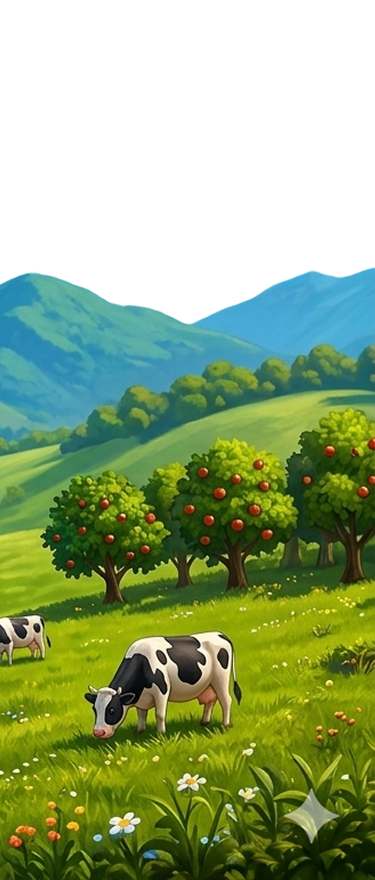
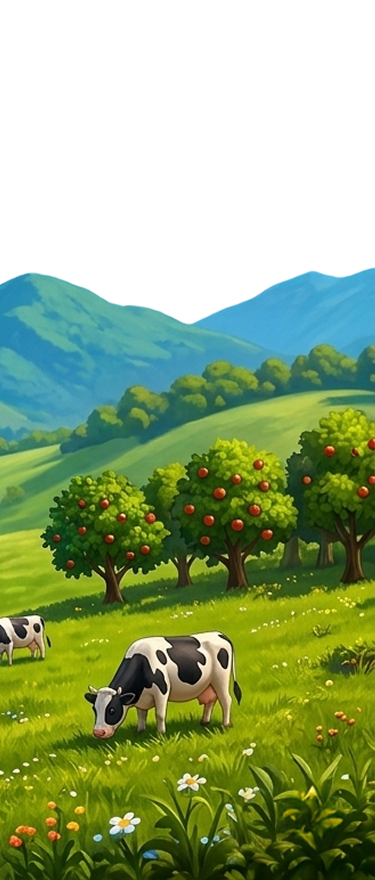
fixes

Changed region(s): [[0.7333, 0.8898, 0.9387, 0.9818]]

diff --git a/src/css/footer.css b/src/css/footer.css
@@ -10,15 +10,9 @@
   align-items: center;
   width: 100%;
   max-width: 1248px;
-  margin: 40px auto;
+  padding: 40px 0 40px 0;
+  margin: 0 auto;
   gap: 32px;
-
-  a {
-    font-weight: 700;
-    font-size: 24px;
-    line-height: 125%;
-    letter-spacing: -1%;
-  }
 
   ul {
     display: flex;
@@ -32,6 +26,43 @@
   }
 }
 
+.footer-page-link {
+  position: relative;
+  display: block;
+  font-weight: 700;
+  font-size: 24px;
+  line-height: 125%;
+  letter-spacing: -1%;
+  transition:
+    color 250ms cubic-bezier(0.22, 1, 0.36, 1),
+    transform 250ms cubic-bezier(0.22, 1, 0.36, 1);
+}
+
+.footer-page-link::after {
+  content: '';
+  position: absolute;
+  right: 0;
+  bottom: -4px;
+  left: 0;
+  height: 2px;
+  background-color: #77b73d;
+  border-radius: 999px;
+  transform: scaleX(0);
+  transform-origin: left center;
+  transition: transform 300ms cubic-bezier(0.68, -0.35, 0.265, 1.35);
+}
+
+.footer-page-link:hover,
+.footer-page-link:focus {
+  color: #77b73d;
+  transform: translateY(-1px);
+}
+
+.footer-page-link:hover::after,
+.footer-page-link:focus::after {
+  transform: scaleX(1);
+}
+
 .footer-copyright {
   margin: 0;
 }
@@ -40,7 +71,7 @@
   .footer-container {
     flex-direction: row;
     max-width: 1248px;
-    margin: 80px auto;
+    padding: 80px 0 80px 0;
     align-items: flex-end;
 
     a {

diff --git a/src/css/reviews.css b/src/css/reviews.css
@@ -77,19 +77,22 @@
   content: '';
   position: absolute;
   bottom: -10px;
-  border-style: solid;
+  width: 42px;
+  height: 10px;
+  background-color: #77b73d;
 }
 
 .review-item:nth-child(odd) .review-bubble::after {
-  left: 20px;
-  border-width: 10px 10px 0 0;
-  border-color: #77b73d transparent transparent transparent;
+  left: 10px; /* Dostosuj, żeby szpic był w odpowiednim miejscu pod łukiem */
+  /* Kształt: płaska góra, szpic po prawej stronie na dole */
+  clip-path: polygon(0 0, 100% 0, 0 100%);
 }
 
+/* Ogonek dla prawej strony (even) */
 .review-item:nth-child(even) .review-bubble::after {
-  right: 20px;
-  border-width: 10px 0 0 10px;
-  border-color: #77b73d transparent transparent transparent;
+  right: 10px;
+  /* Lustrzane odbicie: szpic po lewej stronie na dole */
+  clip-path: polygon(0 0, 100% 0, 100% 100%);
 }
 
 .reviews-imgs {

diff --git a/src/css/gallery.css b/src/css/gallery.css
@@ -75,20 +75,18 @@
   overflow: hidden;
 }
 
-/* Swiper - Kontener */
 .gallery-swiper-main {
   width: 100%;
   padding-top: 20px;
   padding-bottom: 80px;
 }
 
-/* Wymuszenie wyrównania do dołu wszystkich slajdów */
 .gallery-swiper-main .swiper-wrapper {
   display: flex !important;
   align-items: flex-end !important;
+  height: 475px !important;
 }
 
-/* Slajd - Wymiary z makiety */
 .gallery-swiper-main .swiper-slide {
   width: 206px !important;
   height: 475px !important;
@@ -101,10 +99,17 @@
 
   box-sizing: border-box;
   overflow: hidden;
+
   box-shadow: 0 10px 25px rgba(0, 0, 0, 0.15);
+  filter: brightness(0.4);
   transition:
     transform 0.3s ease,
     filter 0.3s ease;
+}
+
+.gallery-swiper-main .swiper-slide-active {
+  filter: brightness(1) !important;
+  z-index: 10; /* Żeby środkowy był "nad" innymi, jeśli na siebie nachodzą */
 }
 
 /* Resetowanie obrazków i kontenerów picture */
@@ -116,10 +121,6 @@
   margin: 0;
   padding: 0;
   object-fit: cover;
-}
-
-.gallery-swiper-main .swiper-slide:not(.swiper-slide-active) {
-  filter: brightness(0.8);
 }
 
 @media screen and (min-width: 1440px) {

diff --git a/src/partials/footer.html b/src/partials/footer.html
@@ -4,8 +4,16 @@
       © 2026 fieldprotocolway.site — All rights reserved
     </p>
     <ul class="footer-nav">
-      <li><a href="./privacy-policy.html">Privacy Policy</a></li>
-      <li><a href="./terms-and-conditions.html">Terms & Conditions</a></li>
+      <li>
+        <a class="footer-page-link" href="./privacy-policy.html"
+          >Privacy Policy</a
+        >
+      </li>
+      <li>
+        <a class="footer-page-link" href="./terms-and-conditions.html"
+          >Terms & Conditions</a
+        >
+      </li>
     </ul>
   </div>
 </footer>

diff --git a/src/partials/reviews.html b/src/partials/reviews.html
@@ -72,7 +72,7 @@
               <use href="./img/sprite.svg#filled-star"></use>
             </svg>
             <svg class="star" width="24" height="24" aria-hidden="true">
-              <use href="./img/sprite.svg#empty-star"></use>
+              <use href="./img/sprite.svg#filled-star"></use>
             </svg>
           </div>
         </div>

diff --git a/src/css/footer-pages.css b/src/css/footer-pages.css
@@ -41,6 +41,7 @@ a {
 .privacy-body,
 .terms-and-cond-body {
   padding: 32px 16px;
+  color: #000000;
 }
 
 button {